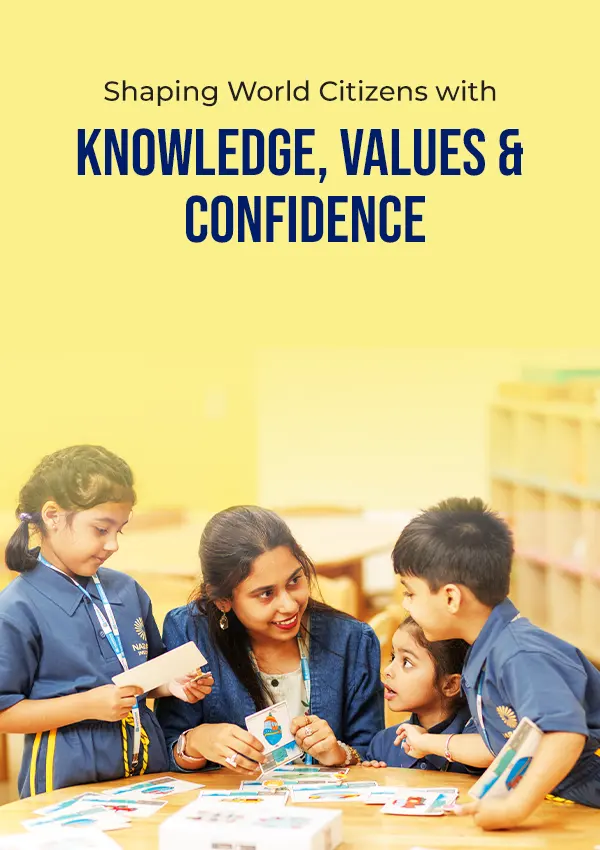
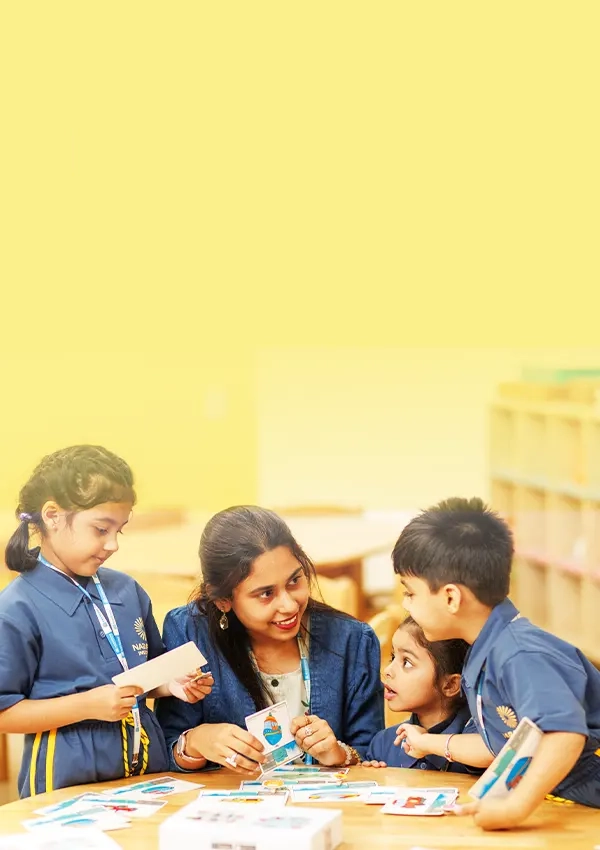
.

Changed region(s): [[0.12, 0.0918, 0.87, 0.3059]]

diff --git a/index.html b/index.html
@@ -43,22 +43,22 @@
 
 
   <section class="banner mb">
-    <div class="container">
+    <div class="main-banner">
       <div class="absolute-content">
         <p class="absolute-text">Best CBSE school near you!</p>
       </div>
       <div class="row">
-        <div class="col-lg-8 col-md-7 col-0">
+        <div class="col-lg-7 col-md-7 col-0">
         </div>
-        <div class="col-lg-4 col-md-5 col-12">
+        <div class="col-lg-5 col-md-5 col-12 p-0">
           <div class="bannetetx">
-            <!-- <h6 class="mb-2">
+            <h6 class="mb-3">
               shaping world citizen with
             </h6>
             <h1>
-              Knowledge, values & confidence
-            </h1> -->
-            <button class="cssbuttons-io-button" data-bs-toggle="modal" data-bs-target="#exampleModal">
+              Knowledge, values &<br> confidence
+            </h1>
+            <button class="cssbuttons-io-button mob-btn" data-bs-toggle="modal" data-bs-target="#exampleModal">
               Register Now
               <div class="icon">
                 <svg height="24" width="24" viewBox="0 0 24 24" xmlns="http://www.w3.org/2000/svg">
@@ -714,8 +714,8 @@
       <hr class="linz">
       <div class="row">
         <div class="col-lg-7 col-md-6 col-12">
-          <p id="copies"><a href="https://www.narayanaschools.in/terms-conditions" style="color: #000;">Terms &
-              Conditions</a> | <a href="https://www.narayanaschools.in/privacy-policy" style="color: #000;">Privacy
+          <p id="copies"><a href="https://www.narayanainternationalschools.com/terms-conditions.html" style="color: #000;">Terms &
+              Conditions</a> | <a href="https://www.narayanainternationalschools.com/privacy-policy.html" style="color: #000;">Privacy
               Policy</a></p>
         </div>
         <div class="col-lg-5 col-md-6 col-12">
@@ -814,22 +814,7 @@
     </div>
   </div>
 
-  <!-- Modal -->
-  <div class="modal fade" id="exampleModal1" tabindex="-1" aria-labelledby="exampleModalLabel" aria-hidden="true">
-    <div class="modal-dialog modal-dialog-centered modal-lg">
-      <div class="modal-content">
-        <!--<div class="modal-header">-->
-        <!--  <h1 class="modal-title fs-5" id="exampleModalLabel">Modal title</h1>-->
-
-        <!--</div>-->
-        <div class="modal-body">
-          <button type="button" class="btn-close" data-bs-dismiss="modal" aria-label="Close"
-            onclick="closeVideo1()"></button>
-          <video controls class="banners-vedio" src="assets/img/credmont.mp4" id="myVideo1"></video>
-        </div>
-      </div>
-    </div>
-  </div>
+ 
 
 
 

diff --git a/assets/css/style.css b/assets/css/style.css
@@ -399,11 +399,12 @@ a {
 }
 
 .banner {
-  background-image: url(../img/banner.webp);
+  background-image: url(../img/banner.jpg);
   background-repeat: no-repeat;
   background-size: cover;
   height: auto;
   position: relative;
+  background-position: right;
 }
 
 @media (max-width: 768px) {
@@ -416,12 +417,40 @@ a {
   }
 
   .bannetetx{
-    padding: 0px !important;
+    padding: 50px 30px 0px  !important;
     display: flex;
+    flex-direction: column;
     justify-content: center;
-    align-items: center;
-    padding-top: 215px !important;
+    align-items: left;
   }
+
+  .bannetetx h6 {
+    font-size: 20px !important;
+    font-weight: 500;
+    color: #000000;
+    margin-bottom: 10px;
+    text-transform: capitalize;
+    text-align: left;
+    text-shadow: 2px 2px 4px rgba(0, 0, 0, 0.1);
+    font-family: "Montserrat", serif;
+  }
+  
+  .bannetetx h1 {
+    font-size: 40px !important;
+    font-weight: 500;
+    color: #2C4C85;
+    margin-bottom: 10px;
+    text-transform: uppercase;
+    text-align: left;
+    font-family: "Bebas Neue", serif;
+    line-height: 35px !important;
+    margin-bottom: 20px;
+  }
+
+  .mob-btn {
+    width: 60% !important;
+  }
+
 }
 
 .rfd {
@@ -434,7 +463,49 @@ a {
 }
 
 .bannetetx {
-  padding: 400px 0px 140px 53px;
+  padding: 200px 0px;
+}
+
+.bannetetx h6 {
+  font-size: 30px;
+  font-weight: 500;
+  color: #000000;
+  margin-bottom: 10px;
+  text-transform: capitalize;
+  letter-spacing: 1px;
+  text-align: left;
+  text-shadow: 2px 2px 4px rgba(0, 0, 0, 0.1);
+  font-family: "Montserrat", serif;
+}
+
+.bannetetx h1 {
+  font-size: 80px;
+  font-weight: 500;
+  color: #2C4C85;
+  margin-bottom: 10px;
+  text-transform: uppercase;
+  text-align: left;
+  font-family: "Bebas Neue", serif;
+  line-height: 70px;
+  margin-bottom: 20px;
+}
+
+.main-banner {
+  max-width: 1400px;
+  margin: 0 auto;
+}
+
+@media (max-width: 1200px) {
+  .main-banner {
+    max-width: 1200px;
+  }
+  .bannetetx h1 {
+    font-size: 60px;
+  }
+  .bannetetx h6 {
+    font-size: 25px;
+  }
+  
 }
 
 .rfd1 {
@@ -484,7 +555,7 @@ a {
 
 .owl-theme .owl-dots .owl-dot.active span,
 .owl-theme .owl-dots .owl-dot:hover span {
-  background: #f07f00;
+  background: #2c4c85;
   width: 20px;
   height: 2px;
 }
@@ -737,7 +808,7 @@ h4 {
     background-size: cover;
     background-position: center;
     width: 100%;
-    height: 50vh;
+    height: 60vh;
     position: relative;
     z-index: 1;
     border-radius: 20px;
